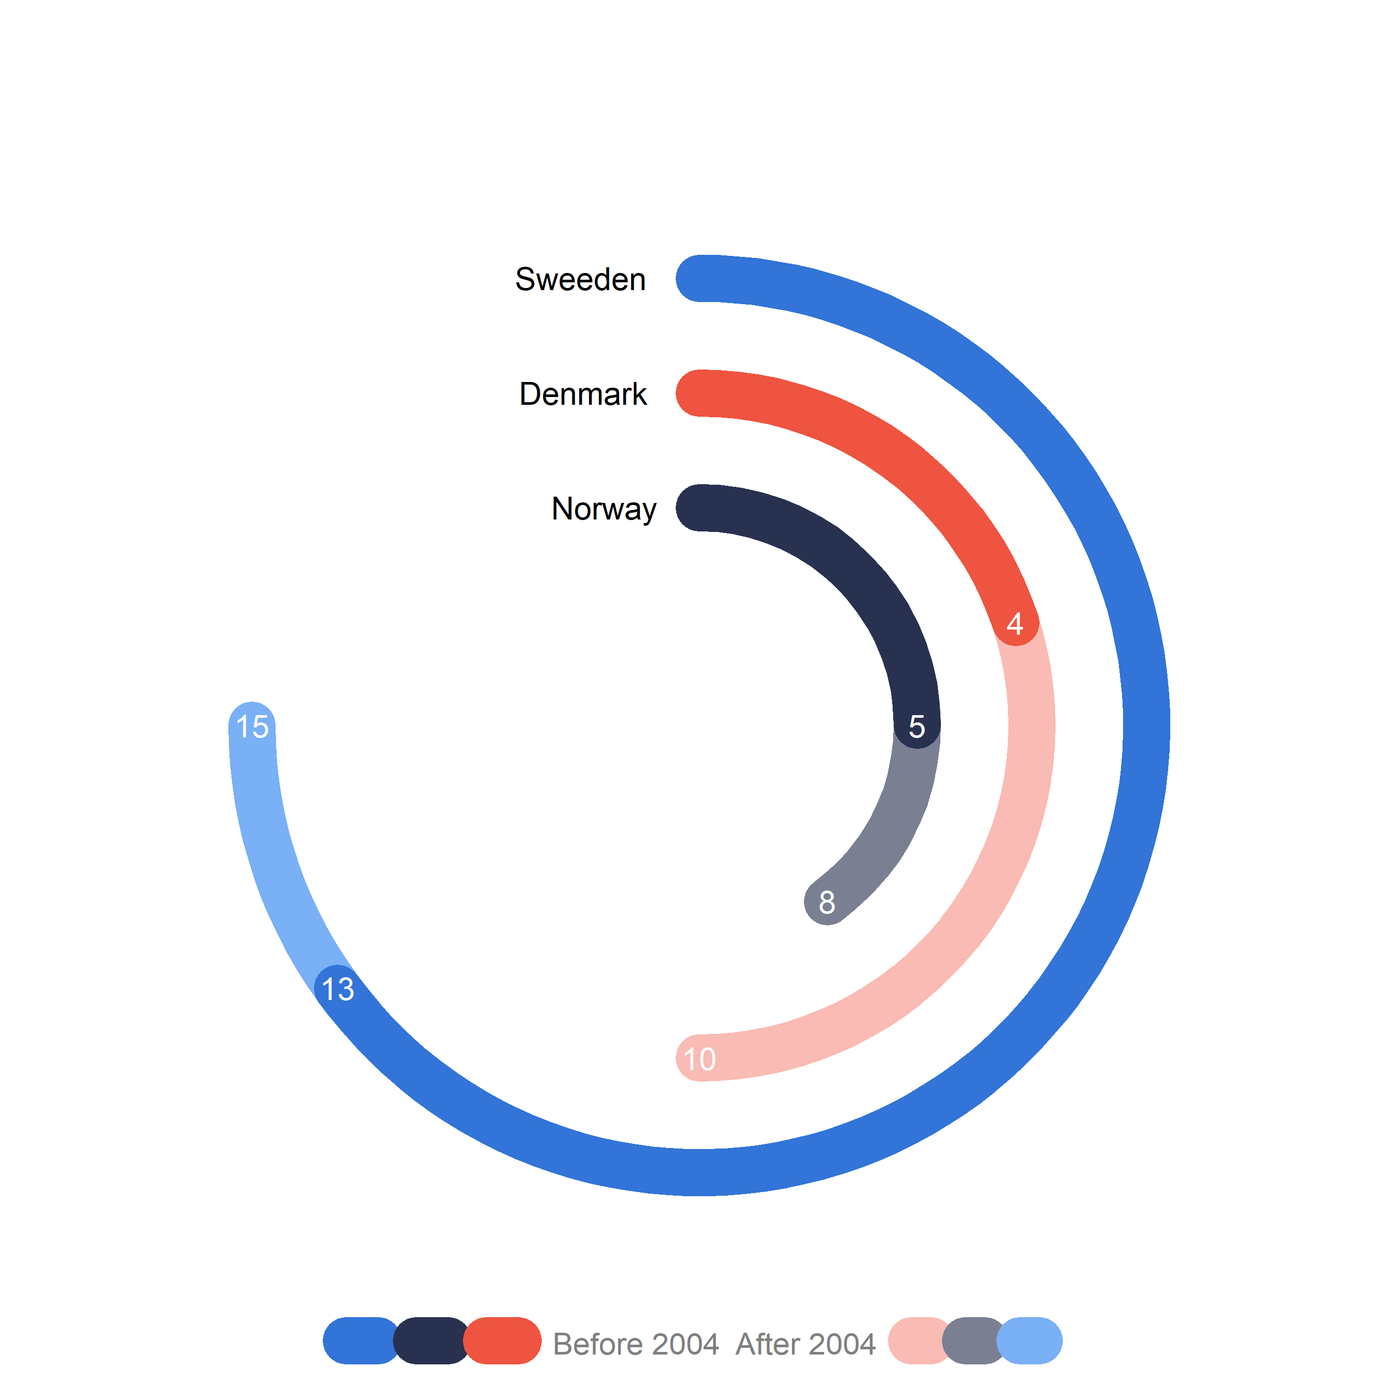
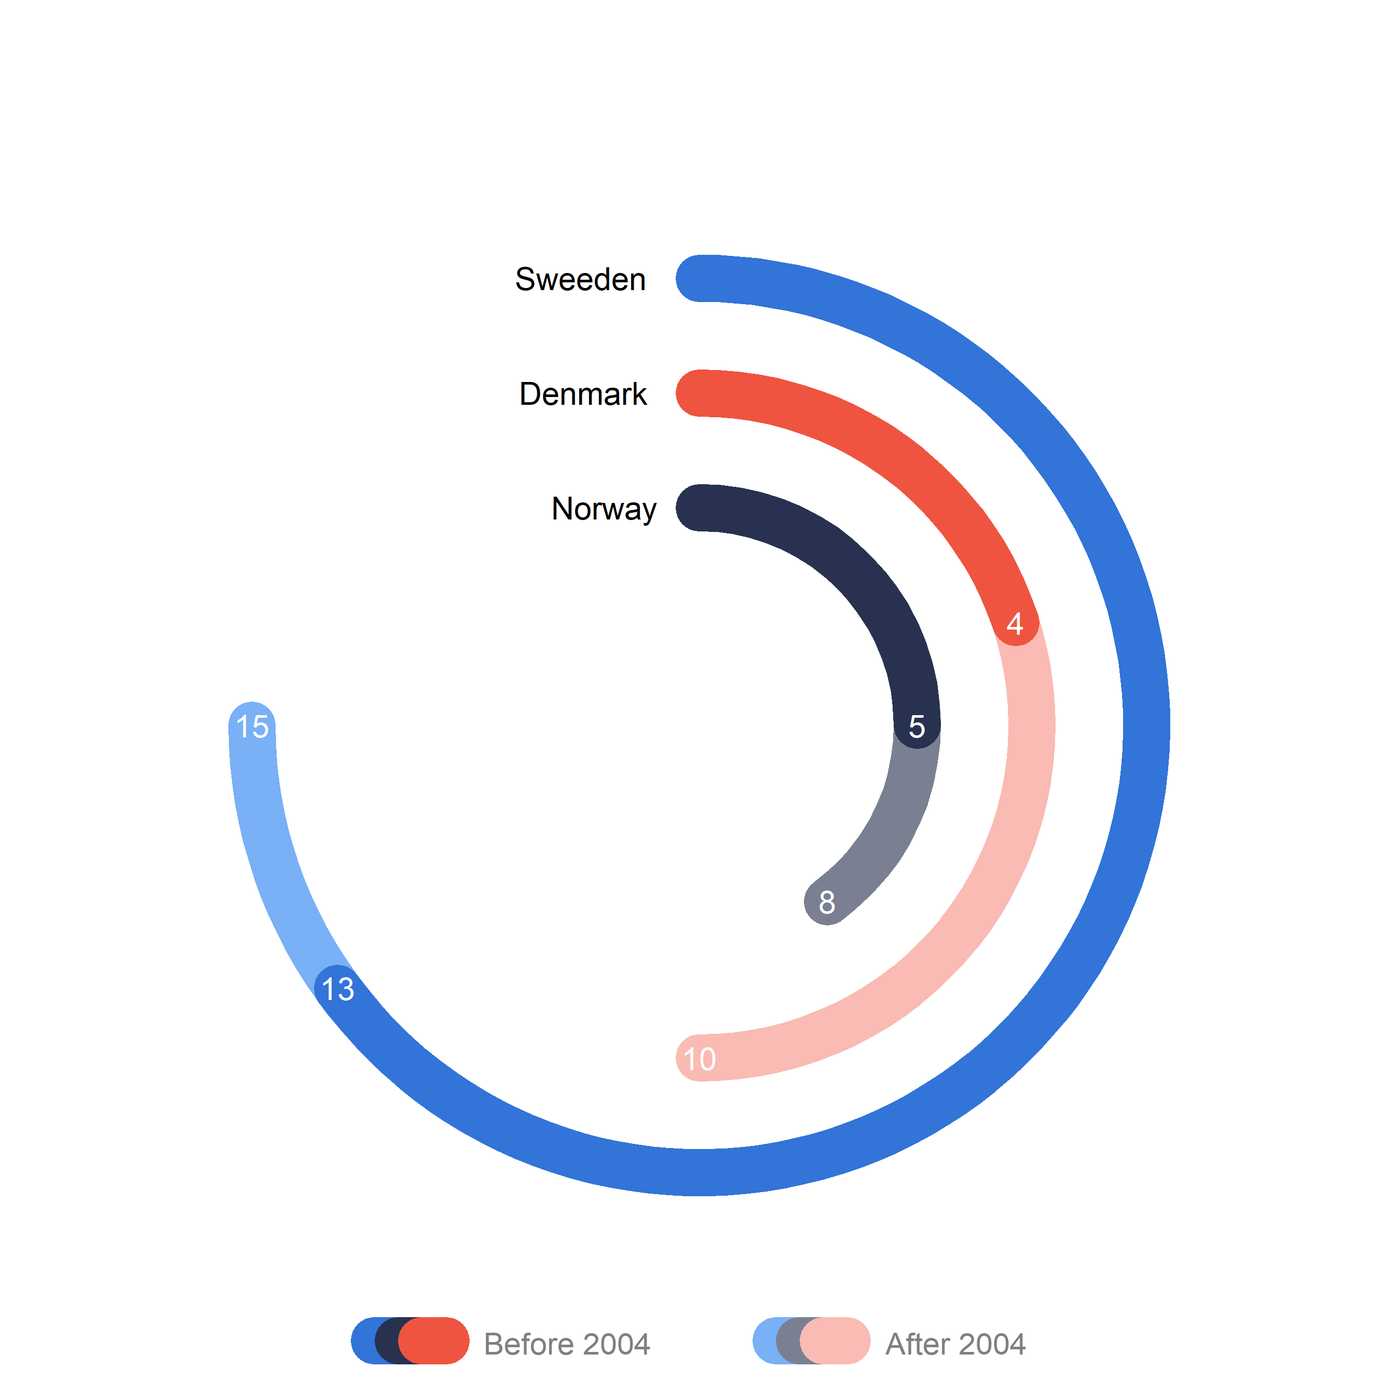
0.080

Changed region(s): [[0.2188, 0.9375, 0.7812, 1.0]]

diff --git a/docs/radial.html b/docs/radial.html
@@ -481,38 +481,41 @@ Figure&nbsp;1: The original graph obtained from 1 dataset 100 visualizations cre
 </div>
 <p>First, we create the dataframes in R:</p>
 <div class="cell">
-<div class="sourceCode" id="cb2"><pre class="downlit sourceCode r code-with-copy"><code class="sourceCode R"><span><span class="va">cols1</span> <span class="op">&lt;-</span> <span class="fu"><a href="https://rdrr.io/r/base/c.html">c</a></span><span class="op">(</span><span class="st">"#F9BBB3"</span>, <span class="st">"#7A8092"</span>,  <span class="st">"#79B0F6"</span><span class="op">)</span></span>
-<span><span class="va">df1</span> <span class="op">&lt;-</span> <span class="fu"><a href="https://tibble.tidyverse.org/reference/tibble.html">tibble</a></span><span class="op">(</span>x <span class="op">=</span> <span class="fu"><a href="https://rdrr.io/r/base/c.html">c</a></span><span class="op">(</span><span class="fl">8</span>, <span class="fl">10</span>, <span class="fl">15</span><span class="op">)</span>,</span>
-<span>                  y <span class="op">=</span> <span class="fu"><a href="https://rdrr.io/r/base/c.html">c</a></span><span class="op">(</span><span class="fl">1</span><span class="op">:</span><span class="fl">3</span><span class="op">)</span>,</span>
-<span>                  `After 2004  ` <span class="op">=</span> <span class="fu"><a href="https://rdrr.io/r/base/c.html">c</a></span><span class="op">(</span><span class="st">"Norway"</span>, <span class="st">"Denmark"</span>, <span class="st">"Sweeden"</span><span class="op">)</span></span>
-<span><span class="op">)</span> </span>
+<div class="sourceCode" id="cb2"><pre class="downlit sourceCode r code-with-copy"><code class="sourceCode R"><span><span class="va">df</span> <span class="op">&lt;-</span> <span class="fu"><a href="https://tibble.tidyverse.org/reference/tibble.html">tibble</a></span><span class="op">(</span></span>
+<span>  x <span class="op">=</span> <span class="fu"><a href="https://rdrr.io/r/base/c.html">c</a></span><span class="op">(</span><span class="fl">8</span>, <span class="fl">10</span>, <span class="fl">15</span>, <span class="fl">5</span>, <span class="fl">4</span>, <span class="fl">13</span><span class="op">)</span>,</span>
+<span>  y <span class="op">=</span> <span class="fu"><a href="https://rdrr.io/r/base/c.html">c</a></span><span class="op">(</span><span class="fl">1</span><span class="op">:</span><span class="fl">3</span>, <span class="fl">1</span><span class="op">:</span><span class="fl">3</span><span class="op">)</span>,</span>
+<span>  country <span class="op">=</span> <span class="fu"><a href="https://rdrr.io/r/base/c.html">c</a></span><span class="op">(</span><span class="st">"Norway"</span>, <span class="st">"Denmark"</span>, <span class="st">"Sweeden"</span>, <span class="st">"Norway"</span>, <span class="st">"Denmark"</span>, <span class="st">"Sweeden"</span><span class="op">)</span>,</span>
+<span>  group <span class="op">=</span> <span class="fu"><a href="https://rdrr.io/r/base/c.html">c</a></span><span class="op">(</span><span class="st">"group1"</span>, <span class="st">"group1"</span>, <span class="st">"group1"</span>, <span class="st">"group2"</span>, <span class="st">"group2"</span>, <span class="st">"group2"</span><span class="op">)</span></span>
+<span><span class="op">)</span></span>
 <span></span>
-<span></span>
-<span><span class="va">cols2</span> <span class="op">&lt;-</span> <span class="fu"><a href="https://rdrr.io/r/base/c.html">c</a></span><span class="op">(</span><span class="st">"#EE5440"</span>, <span class="st">"#283250"</span>, <span class="st">"#3274D8"</span><span class="op">)</span></span>
-<span><span class="va">df2</span> <span class="op">&lt;-</span> <span class="fu"><a href="https://rdrr.io/r/base/data.frame.html">data.frame</a></span><span class="op">(</span>x <span class="op">=</span> <span class="fu"><a href="https://rdrr.io/r/base/c.html">c</a></span><span class="op">(</span><span class="fl">5</span>, <span class="fl">4</span>, <span class="fl">13</span><span class="op">)</span>,</span>
-<span>                  y <span class="op">=</span> <span class="fu"><a href="https://rdrr.io/r/base/c.html">c</a></span><span class="op">(</span><span class="fl">1</span><span class="op">:</span><span class="fl">3</span><span class="op">)</span>,</span>
-<span>                  country <span class="op">=</span> <span class="fu"><a href="https://rdrr.io/r/base/c.html">c</a></span><span class="op">(</span><span class="st">"Norway"</span>, <span class="st">"Denmark"</span>, <span class="st">"Sweeden"</span><span class="op">)</span></span>
-<span><span class="op">)</span></span></code><button title="Copy to Clipboard" class="code-copy-button"><i class="bi"></i></button></pre></div>
+<span><span class="va">cols1</span> <span class="op">&lt;-</span> <span class="fu"><a href="https://rdrr.io/r/base/c.html">c</a></span><span class="op">(</span><span class="st">"#F9BBB3"</span>, <span class="st">"#7A8092"</span>,  <span class="st">"#79B0F6"</span><span class="op">)</span></span>
+<span><span class="va">cols2</span> <span class="op">&lt;-</span> <span class="fu"><a href="https://rdrr.io/r/base/c.html">c</a></span><span class="op">(</span><span class="st">"#EE5440"</span>, <span class="st">"#283250"</span>, <span class="st">"#3274D8"</span><span class="op">)</span></span></code><button title="Copy to Clipboard" class="code-copy-button"><i class="bi"></i></button></pre></div>
 </div>
 <div class="cell">
-<div class="sourceCode" id="cb3"><pre class="downlit sourceCode r code-with-copy"><code class="sourceCode R"><span><span class="fu"><a href="https://ggplot2.tidyverse.org/reference/ggplot.html">ggplot</a></span><span class="op">(</span><span class="op">)</span> <span class="op">+</span></span>
-<span>  <span class="fu"><a href="https://ggplot2.tidyverse.org/reference/geom_segment.html">geom_segment</a></span><span class="op">(</span>data <span class="op">=</span> <span class="va">df1</span>, <span class="fu"><a href="https://ggplot2.tidyverse.org/reference/aes.html">aes</a></span><span class="op">(</span>x <span class="op">=</span> <span class="fl">0</span>, xend <span class="op">=</span> <span class="va">x</span>, y <span class="op">=</span> <span class="va">y</span>, yend <span class="op">=</span> <span class="va">y</span>, </span>
-<span>                               color <span class="op">=</span> <span class="va">`After 2004  `</span><span class="op">)</span>, </span>
+<div class="sourceCode" id="cb3"><pre class="downlit sourceCode r code-with-copy"><code class="sourceCode R"><span><span class="va">df</span> <span class="op">|&gt;</span> </span>
+<span><span class="fu"><a href="https://ggplot2.tidyverse.org/reference/ggplot.html">ggplot</a></span><span class="op">(</span><span class="op">)</span> <span class="op">+</span></span>
+<span>  <span class="fu"><a href="https://ggplot2.tidyverse.org/reference/geom_segment.html">geom_segment</a></span><span class="op">(</span>data <span class="op">=</span> <span class="fu"><a href="https://dplyr.tidyverse.org/reference/filter.html">filter</a></span><span class="op">(</span><span class="va">df</span>, <span class="va">group</span> <span class="op">==</span> <span class="st">"group1"</span><span class="op">)</span>, <span class="fu"><a href="https://ggplot2.tidyverse.org/reference/aes.html">aes</a></span><span class="op">(</span>x <span class="op">=</span> <span class="fl">0</span>, xend <span class="op">=</span> <span class="va">x</span>, y <span class="op">=</span> <span class="va">y</span>, yend <span class="op">=</span> <span class="va">y</span>, </span>
+<span>                               color <span class="op">=</span> <span class="va">country</span><span class="op">)</span>, </span>
 <span>               linewidth <span class="op">=</span> <span class="fl">16</span>, lineend <span class="op">=</span> <span class="st">'round'</span><span class="op">)</span> <span class="op">+</span></span>
-<span>  <span class="fu"><a href="https://ggplot2.tidyverse.org/reference/geom_text.html">geom_text</a></span><span class="op">(</span>data <span class="op">=</span> <span class="va">df1</span>, <span class="fu"><a href="https://ggplot2.tidyverse.org/reference/aes.html">aes</a></span><span class="op">(</span><span class="va">x</span>, <span class="va">y</span>, label <span class="op">=</span> <span class="va">x</span><span class="op">)</span>, color <span class="op">=</span> <span class="st">"white"</span>, size <span class="op">=</span> <span class="fl">8</span><span class="op">)</span> <span class="op">+</span></span>
-<span>  <span class="fu"><a href="https://ggplot2.tidyverse.org/reference/geom_text.html">geom_text</a></span><span class="op">(</span>data <span class="op">=</span> <span class="va">df1</span>, <span class="fu"><a href="https://ggplot2.tidyverse.org/reference/aes.html">aes</a></span><span class="op">(</span>x <span class="op">=</span> <span class="fl">0</span>, <span class="va">y</span>, label <span class="op">=</span> <span class="va">`After 2004  `</span><span class="op">)</span>, size <span class="op">=</span> <span class="fl">8</span>, hjust <span class="op">=</span> <span class="fl">1.4</span><span class="op">)</span> <span class="op">+</span></span>
+<span>  <span class="fu"><a href="https://ggplot2.tidyverse.org/reference/geom_text.html">geom_text</a></span><span class="op">(</span>data <span class="op">=</span> <span class="fu"><a href="https://dplyr.tidyverse.org/reference/filter.html">filter</a></span><span class="op">(</span><span class="va">df</span>, <span class="va">group</span> <span class="op">==</span> <span class="st">"group1"</span><span class="op">)</span>, <span class="fu"><a href="https://ggplot2.tidyverse.org/reference/aes.html">aes</a></span><span class="op">(</span><span class="va">x</span>, <span class="va">y</span>, label <span class="op">=</span> <span class="va">x</span><span class="op">)</span>, color <span class="op">=</span> <span class="st">"white"</span>, size <span class="op">=</span> <span class="fl">8</span><span class="op">)</span> <span class="op">+</span></span>
+<span>  <span class="fu"><a href="https://ggplot2.tidyverse.org/reference/geom_text.html">geom_text</a></span><span class="op">(</span>data <span class="op">=</span> <span class="fu"><a href="https://dplyr.tidyverse.org/reference/filter.html">filter</a></span><span class="op">(</span><span class="va">df</span>, <span class="va">group</span> <span class="op">==</span> <span class="st">"group1"</span><span class="op">)</span>, <span class="fu"><a href="https://ggplot2.tidyverse.org/reference/aes.html">aes</a></span><span class="op">(</span>x <span class="op">=</span> <span class="fl">0</span>, <span class="va">y</span>, label <span class="op">=</span> <span class="va">country</span><span class="op">)</span>, size <span class="op">=</span> <span class="fl">8</span>, hjust <span class="op">=</span> <span class="fl">1.4</span><span class="op">)</span> <span class="op">+</span></span>
 <span>  <span class="fu"><a href="https://ggplot2.tidyverse.org/reference/scale_manual.html">scale_color_manual</a></span><span class="op">(</span>values <span class="op">=</span> <span class="va">cols1</span><span class="op">)</span> <span class="op">+</span></span>
+<span>  <span class="fu"><a href="https://ggplot2.tidyverse.org/reference/guides.html">guides</a></span><span class="op">(</span>color <span class="op">=</span> <span class="fu"><a href="https://ggplot2.tidyverse.org/reference/guide_legend.html">guide_legend</a></span><span class="op">(</span>title <span class="op">=</span> <span class="fu"><a href="https://rdrr.io/r/base/paste.html">paste0</a></span><span class="op">(</span><span class="fu"><a href="https://rdrr.io/r/base/strrep.html">strrep</a></span><span class="op">(</span><span class="st">" "</span>, <span class="fl">5</span><span class="op">)</span>, <span class="st">"After 2004"</span><span class="op">)</span>,</span>
+<span>                              reverse <span class="op">=</span> <span class="cn">TRUE</span>,</span>
+<span>                              keywidth <span class="op">=</span> <span class="fl">1.5</span>, order <span class="op">=</span> <span class="fl">1</span>,</span>
+<span>                              title.position <span class="op">=</span> <span class="st">"right"</span><span class="op">)</span><span class="op">)</span> <span class="op">+</span></span>
 <span>  <span class="fu"><a href="https://eliocamp.github.io/ggnewscale/reference/new_scale.html">new_scale_color</a></span><span class="op">(</span><span class="op">)</span> <span class="op">+</span></span>
-<span>  <span class="fu"><a href="https://ggplot2.tidyverse.org/reference/geom_segment.html">geom_segment</a></span><span class="op">(</span>data <span class="op">=</span> <span class="va">df2</span>, <span class="fu"><a href="https://ggplot2.tidyverse.org/reference/aes.html">aes</a></span><span class="op">(</span>x <span class="op">=</span> <span class="fl">0</span>, xend <span class="op">=</span> <span class="va">x</span>, y <span class="op">=</span> <span class="va">y</span>, yend <span class="op">=</span> <span class="va">y</span>, </span>
+<span>  <span class="fu"><a href="https://ggplot2.tidyverse.org/reference/geom_segment.html">geom_segment</a></span><span class="op">(</span>data <span class="op">=</span> <span class="fu"><a href="https://dplyr.tidyverse.org/reference/filter.html">filter</a></span><span class="op">(</span><span class="va">df</span>, <span class="va">group</span> <span class="op">==</span> <span class="st">"group2"</span><span class="op">)</span>, <span class="fu"><a href="https://ggplot2.tidyverse.org/reference/aes.html">aes</a></span><span class="op">(</span>x <span class="op">=</span> <span class="fl">0</span>, xend <span class="op">=</span> <span class="va">x</span>, y <span class="op">=</span> <span class="va">y</span>, yend <span class="op">=</span> <span class="va">y</span>, </span>
 <span>                               color <span class="op">=</span> <span class="va">country</span><span class="op">)</span>,</span>
 <span>               linewidth <span class="op">=</span> <span class="fl">16</span>, lineend <span class="op">=</span> <span class="st">'round'</span><span class="op">)</span> <span class="op">+</span></span>
-<span>  <span class="fu"><a href="https://ggplot2.tidyverse.org/reference/geom_text.html">geom_text</a></span><span class="op">(</span>data <span class="op">=</span> <span class="va">df2</span>, <span class="fu"><a href="https://ggplot2.tidyverse.org/reference/aes.html">aes</a></span><span class="op">(</span><span class="va">x</span>, <span class="va">y</span>, label <span class="op">=</span> <span class="va">x</span><span class="op">)</span>, color <span class="op">=</span> <span class="st">"white"</span>, size <span class="op">=</span> <span class="fl">8</span><span class="op">)</span> <span class="op">+</span></span>
+<span>  <span class="fu"><a href="https://ggplot2.tidyverse.org/reference/geom_text.html">geom_text</a></span><span class="op">(</span>data <span class="op">=</span> <span class="fu"><a href="https://dplyr.tidyverse.org/reference/filter.html">filter</a></span><span class="op">(</span><span class="va">df</span>, <span class="va">group</span> <span class="op">==</span> <span class="st">"group2"</span><span class="op">)</span>, <span class="fu"><a href="https://ggplot2.tidyverse.org/reference/aes.html">aes</a></span><span class="op">(</span><span class="va">x</span>, <span class="va">y</span>, label <span class="op">=</span> <span class="va">x</span><span class="op">)</span>, color <span class="op">=</span> <span class="st">"white"</span>, size <span class="op">=</span> <span class="fl">8</span><span class="op">)</span> <span class="op">+</span></span>
 <span>  <span class="fu"><a href="https://ggplot2.tidyverse.org/reference/scale_manual.html">scale_color_manual</a></span><span class="op">(</span>values <span class="op">=</span> <span class="va">cols2</span><span class="op">)</span> <span class="op">+</span></span>
 <span>  <span class="fu"><a href="https://ggplot2.tidyverse.org/reference/scale_continuous.html">scale_y_continuous</a></span><span class="op">(</span>expand <span class="op">=</span> <span class="fu"><a href="https://ggplot2.tidyverse.org/reference/expansion.html">expansion</a></span><span class="op">(</span>mult <span class="op">=</span> <span class="fl">0.3</span><span class="op">)</span>, limits <span class="op">=</span> <span class="fu"><a href="https://rdrr.io/r/base/c.html">c</a></span><span class="op">(</span><span class="fl">0</span>, <span class="fl">3</span><span class="op">)</span><span class="op">)</span> <span class="op">+</span></span>
 <span>  <span class="fu"><a href="https://ggplot2.tidyverse.org/reference/scale_continuous.html">scale_x_continuous</a></span><span class="op">(</span>limits <span class="op">=</span> <span class="fu"><a href="https://rdrr.io/r/base/c.html">c</a></span><span class="op">(</span><span class="fl">0</span>, <span class="fl">20</span><span class="op">)</span><span class="op">)</span> <span class="op">+</span></span>
 <span>  <span class="fu"><a href="https://ggplot2.tidyverse.org/reference/coord_polar.html">coord_polar</a></span><span class="op">(</span><span class="op">)</span> <span class="op">+</span></span>
-<span>  <span class="fu"><a href="https://ggplot2.tidyverse.org/reference/guides.html">guides</a></span><span class="op">(</span>color <span class="op">=</span> <span class="fu"><a href="https://ggplot2.tidyverse.org/reference/guide_legend.html">guide_legend</a></span><span class="op">(</span>title <span class="op">=</span> <span class="st">"Before 2004"</span>, reverse <span class="op">=</span> <span class="cn">TRUE</span>,</span>
-<span>                              keywidth <span class="op">=</span> <span class="fl">2.0</span>, order <span class="op">=</span> <span class="fl">1</span>,</span>
+<span>  <span class="fu"><a href="https://ggplot2.tidyverse.org/reference/guides.html">guides</a></span><span class="op">(</span>color <span class="op">=</span> <span class="fu"><a href="https://ggplot2.tidyverse.org/reference/guide_legend.html">guide_legend</a></span><span class="op">(</span>title <span class="op">=</span> <span class="fu"><a href="https://rdrr.io/r/base/paste.html">paste0</a></span><span class="op">(</span><span class="fu"><a href="https://rdrr.io/r/base/strrep.html">strrep</a></span><span class="op">(</span><span class="st">" "</span>, <span class="fl">5</span><span class="op">)</span>, <span class="st">"Before 2004"</span>, <span class="fu"><a href="https://rdrr.io/r/base/strrep.html">strrep</a></span><span class="op">(</span><span class="st">" "</span>, <span class="fl">15</span><span class="op">)</span><span class="op">)</span>,</span>
+<span>                              reverse <span class="op">=</span> <span class="cn">TRUE</span>,</span>
+<span>                              keywidth <span class="op">=</span> <span class="fl">1.5</span>, order <span class="op">=</span> <span class="fl">1</span>,</span>
 <span>                              title.position <span class="op">=</span> <span class="st">"right"</span><span class="op">)</span><span class="op">)</span> <span class="op">+</span></span>
 <span>  <span class="fu"><a href="https://ggplot2.tidyverse.org/reference/theme.html">theme</a></span><span class="op">(</span>panel.background <span class="op">=</span> <span class="fu"><a href="https://ggplot2.tidyverse.org/reference/element.html">element_blank</a></span><span class="op">(</span><span class="op">)</span>,</span>
 <span>        axis.title <span class="op">=</span> <span class="fu"><a href="https://ggplot2.tidyverse.org/reference/element.html">element_blank</a></span><span class="op">(</span><span class="op">)</span>,</span>
@@ -520,9 +523,10 @@ Figure&nbsp;1: The original graph obtained from 1 dataset 100 visualizations cre
 <span>        axis.ticks <span class="op">=</span> <span class="fu"><a href="https://ggplot2.tidyverse.org/reference/element.html">element_blank</a></span><span class="op">(</span><span class="op">)</span>,</span>
 <span>        legend.position <span class="op">=</span> <span class="st">"bottom"</span>,</span>
 <span>        legend.title <span class="op">=</span> <span class="fu"><a href="https://ggplot2.tidyverse.org/reference/element.html">element_text</a></span><span class="op">(</span>size <span class="op">=</span> <span class="fl">22</span>, color <span class="op">=</span> <span class="st">"gray50"</span><span class="op">)</span>,</span>
-<span>        legend.margin <span class="op">=</span> <span class="fu"><a href="https://ggplot2.tidyverse.org/reference/element.html">margin</a></span><span class="op">(</span>t <span class="op">=</span> <span class="op">-</span><span class="fl">75</span><span class="op">)</span>,</span>
-<span>        legend.text <span class="op">=</span> <span class="fu"><a href="https://ggplot2.tidyverse.org/reference/element.html">element_blank</a></span><span class="op">(</span><span class="op">)</span></span>
-<span>        <span class="op">)</span></span></code><button title="Copy to Clipboard" class="code-copy-button"><i class="bi"></i></button></pre></div>
+<span>        legend.margin <span class="op">=</span> <span class="fu"><a href="https://ggplot2.tidyverse.org/reference/element.html">margin</a></span><span class="op">(</span>t <span class="op">=</span> <span class="op">-</span><span class="fl">75</span>, <span class="op">)</span>,</span>
+<span>        legend.text <span class="op">=</span> <span class="fu"><a href="https://ggplot2.tidyverse.org/reference/element.html">element_blank</a></span><span class="op">(</span><span class="op">)</span>,</span>
+<span>        legend.spacing.x <span class="op">=</span> <span class="fu"><a href="https://rdrr.io/r/grid/unit.html">unit</a></span><span class="op">(</span><span class="op">-</span><span class="fl">0.8</span>, <span class="st">"mm"</span><span class="op">)</span></span>
+<span>  <span class="op">)</span></span></code><button title="Copy to Clipboard" class="code-copy-button"><i class="bi"></i></button></pre></div>
 <div class="cell-output-display">
 <div id="fig-final" class="quarto-figure quarto-figure-center quarto-float anchored">
 <figure class="quarto-float quarto-float-fig figure"><div aria-describedby="fig-final-caption-0ceaefa1-69ba-4598-a22c-09a6ac19f8ca">
